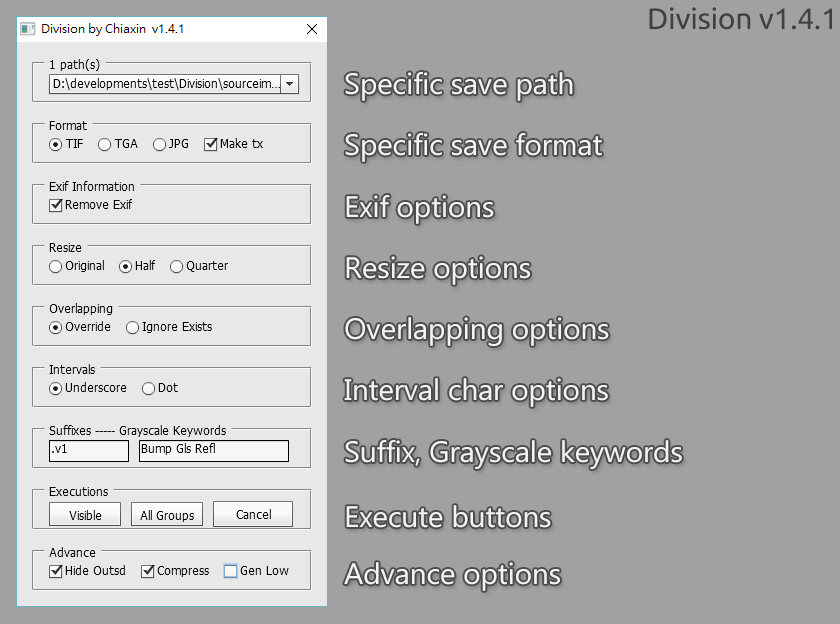
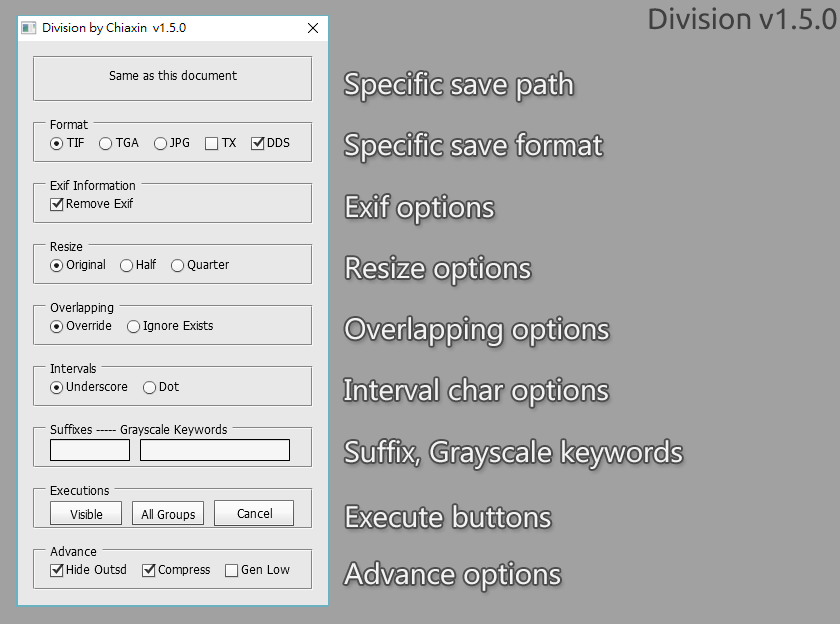
Refactoring code. update to version 1.5

diff --git a/Division.jsx b/Division.jsx
@@ -33,7 +33,7 @@ const COLOR_PROFILE_EMBED     = false                 ; // The Color-profile emb
 const ALPHA_CHANNEL_KEEP      = false                 ; // The Alpha channel keep or not.
 const EXTENSION_CASE          = Extension.LOWERCASE   ; // File extension is uppercase or lowercase? 
 const UI_TITLE                = "Division by Chiaxin "; // Window title.
-const SCRIPT_VER            = "v1.5.0"            ; // Version.
+const SCRIPT_VER              = "v1.5.0"            ; // Version.
 const ENDING_WAIT             = 240                   ; //
 
 // Low Resolution
@@ -49,13 +49,16 @@ const JPEG_FORMAT = FormatOptions.STANDARDBASELINE    ; // JPEG format.
 const JPEG_SAVE_QUALITY       = 12                    ; // JPEG compression quality.
 const JPEG_MATTE_TYPE         = MatteType.SEMIGRAY    ; // JPEG matte type.
 
+// Resample method
+const RESAMPLE_METHOD = ResampleMethod.BICUBIC;
+
 // TGA Format
 const TGA_PER_PIXELS = TargaBitsPerPixels.TWENTYFOUR  ; // TGA format (24 bits).
 
 // The log file would be pre-reading, If not exists, it will try to build a new file.
-const SCRIPT_NAME     = "Division.jsx"                        ; // The local script name.
-const LOG_NAME        = "DivisionLog.txt"                     ; // The log txt.
-const SCRIPT_FOLDER   = $.fileName.replace(SCRIPT_NAME, "")   ; // The script folder.
+const SCRIPT_NAME     = "Division.jsx"                ; // The local script name.
+const LOG_NAME        = "DivisionLog.txt"             ; // The log txt.
+const SCRIPT_FOLDER   = File($.fileName).path         ; // The script folder.
 
 // Global variables
 var gSavePaths      = [];       // Get all path(s) need to save.
@@ -63,7 +66,6 @@ var gDefaultSavePath= "";       // Default save path.
 var gImagePixel     = 72;       // Document's pixel. The default is 72.
 var gCompression    = true;     // Compression image option.
 var gGrayKeyword    = "";       // The keyword(s) define gray image.
-var gResampleMethod = ResampleMethod.BICUBIC;
 var gNumVisible     = 0;        //
 var gLayNumVisible  = 0;        //
 var gVersionAppend  = "";       // Indicate the version string suffix.
@@ -130,7 +132,9 @@ const   TEXT_PATHS      = "path(s)",
         TEXT_NO_DOCUMENTS = "There have no any document!",
         TEXT_PROC_TERM  = "Process has been terminated",
         TEXT_MAKETX_PROC= "Make tx process...",
+        TEXT_CONVDDS_PRO= "Convert dds process...",
         TEXT_MAKETX_NF  = "maketx.jsx was not found.",
+        TEXT_CONVDDS_NF = "makedds.jsx was not found.",
         TEXT_RMEXIF_PROC= "Remove EXIF process...",
         TEXT_EXIFUT_NF  = "exifutil.jsx was not found.",
         HELP_SAVE_PATH  = "Please choice a path of list you want to save.",
@@ -144,6 +148,7 @@ const   TEXT_PATHS      = "path(s)",
         HELP_EXEC_VIS   = "Only visible groups would be save.",
         HELP_EXEC_ALL   = "Save all layers.",
         HELP_MAKE_TX    = "Auto generate arnold tx format image.",
+        HELP_CONV_DDS   = "Convert DDS format after."
         HELP_RMEXIF     = "Remove EXIF information."
         HELP_HIDE_OUTSD = "Hide outside layers before.",
         HELP_COMPRESS   = "Compression image format.",
@@ -156,8 +161,7 @@ division();
 function division()
 {
     // If document is incorrect, terminate process.
-    if(!activeDocumentCheck())
-    {
+    if(!activeDocumentCheck()) {
         return false;
     }
     gSavePaths = getSavePathProc(); // Get all path(s) need to save.
@@ -247,12 +251,18 @@ function divisionDialog()
         }
         dlg.panelExtensionOptions.rbA.onClick = function() {
             gExtension = "tif"; gExtensionStore = gExtension; 
+            // Enable remove exif infomation function.
+            dlg.panelExifInformation.cbA.enabled = true
         };
         dlg.panelExtensionOptions.rbB.onClick = function() {
-            gExtension = "tga"; gExtensionStore = gExtension; 
+            gExtension = "tga"; gExtensionStore = gExtension;
+            // Disable remove exif infomation function.
+            dlg.panelExifInformation.cbA.enabled = false;
         };
         dlg.panelExtensionOptions.rbC.onClick = function() {
             gExtension = "jpg"; gExtensionStore = gExtension;
+            // Disable remove exif infomation function.
+            dlg.panelExifInformation.cbA.enabled = false;
         };
         gExtensionStore = gExtension;
     } else {
@@ -271,10 +281,10 @@ function divisionDialog()
         gAutoGenerateTx = !gAutoGenerateTx;
     };
     dlg.panelExtensionOptions.cbB = dlg.panelExtensionOptions.add(
-        "CheckBox", undefined, "DDS"
+        "CheckBox", undefined, TEXT_MAKEDDS
     );
     dlg.panelExtensionOptions.cbB.value = gConvertDds;
-    dlg.panelExtensionOptions.cbB.helpTip = TEXT_MAKEDDS;
+    dlg.panelExtensionOptions.cbB.helpTip = HELP_CONV_DDS;
     dlg.panelExtensionOptions.cbB.onClick = function() {
         gConvertDds = !gConvertDds;
     };
@@ -292,6 +302,10 @@ function divisionDialog()
     dlg.panelExifInformation.cbA.onClick = function() {
         gRemoveExif = !gRemoveExif;
     };
+    // Disable remove exif function if format is not tif
+    if (gExtension != "tif") {
+        dlg.panelExifInformation.cbA.enabled = false;
+    }
 
     // Panel resize image options.
     dlg.panelResizeOptions = dlg.add("panel", undefined, TEXT_RESIZE);
@@ -604,7 +618,7 @@ function divisionMainProc(is_output_all)
                 app.activeDocument = work_doc; //Setting work document active.
                 while(work_doc.height.value != resize_height)
                 {
-                    work_doc.resizeImage(resize_width, resize_height, gImagePixel, gResampleMethod);
+                    work_doc.resizeImage(resize_width, resize_height, gImagePixel, RESAMPLE_METHOD);
                 }
                 work_doc.close(SaveOptions.SAVECHANGES); // Close with save changes.
                 app.activeDocument = curr_doc; // Focus previous document.
@@ -684,9 +698,23 @@ function divisionMainProc(is_output_all)
         if (maketx_file.exists) {
             $.evalFile(maketx_file);
             maketx(saved_images);
-            rate.setInfo(MAKE_PROC);
+            rate.setInfo(TEXT_MAKETX_PROC);
         } else {
-            rate.setInfo(MAKETX_NF);
+            rate.setInfo(TEXT_MAKETX_NF);
+        }
+    }
+
+    // Make DDS
+    if (gConvertDds)
+    {
+        var makedds_module = "" + File($.fileName).path + "/makedds.jsx";
+        var makedds_file = new File(makedds_module);
+        if (makedds_file.exists) {
+            $.evalFile(makedds_file);
+            makedds(saved_images);
+            rate.setInfo(TEXT_CONVDDS_PRO);
+        } else {
+            rate.setInfo(TEXT_CONVDDS_NF);
         }
     }
 
@@ -701,20 +729,6 @@ function divisionMainProc(is_output_all)
             rate.setInfo(TEXT_RMEXIF_PROC);
         } else {
             rate.setInfo(TEXT_EXIFUT_NF);
-        }
-    }
-    
-    // Make DDS
-    if (gConvertDds)
-    {
-        var makedds_module = "" + File($.fileName).path + "/makedds.jsx";
-        var makedds_file = new File(makedds_module);
-        if (makedds_file.exists) {
-            $.evalFile(makedds_file);
-            makedds(saved_images);
-            rate.setInfo("Make dds");
-        } else {
-            rate.setInfo("...");
         }
     }
 

diff --git a/maketx.jsx b/maketx.jsx
@@ -3,20 +3,18 @@
 //  maketx module
 //
 // ---------------------------------------------------------------------------
-//
-var common_module = "" + File($.fileName).path + "/common.jsx";
-var common_file = new File(common_module);
-if (common_file.exists)
-{
+
+// Loading common script.
+const common_file = new File("" + File($.fileName).path + "/common.jsx");
+if (common_file.exists) {
     $.evalFile(common_file);
 }
-else
-{
+else {
     alert("common.jsx is not eixsts.");
 }
 
-var MAKETX_CONFIG_FILE = "/txConfig.txt";
-var GENERATE_TX_TEMP_BAT = "/division_generate_tx.bat";
+const MAKETX_CONFIG_FILE = "/txConfig.txt";
+const GENERATE_TX_TEMP_BAT = "/division_generate_tx.bat";
 
 function maketx(images)
 {
@@ -65,32 +63,46 @@ function maketx(images)
     } finally {
         config.close();
     }
-    var bat_command = join([qw(bin), maketx_arguments, "--colorengine", "syncolor",
-                      "--colorconfig", qw(colorconfig)]);
+    var bat_command = join([qw(bin), 
+                            maketx_arguments, 
+                            "--colorengine", 
+                            "syncolor",
+                            "--colorconfig", 
+                            qw(colorconfig)
+                           ]);
     var temp_folder = get_temp_folder();
     var bat_file = win_path(temp_folder + GENERATE_TX_TEMP_BAT);
-    var bat_fh = new File(bat_file);
+    var file_handle = new File(bat_file);
     try {
-        bat_fh.open('w');
-        bat_fh.writeln("@echo off");
-        for (var img_id = 0 ; img_id < images.length ; img_id++)
-        {
-            var image = win_path(images[img_id]);
+        file_handle.open('w');
+        file_handle.writeln("@echo off");
+        for (var idx = 0 ; idx < images.length ; idx++) {
+            var image = win_path(images[idx]);
             var image_color_space = default_color_profile;
             if (has_keyword(image, srgb))
                 image_color_space = "sRGB";
             else if (has_keyword(image, raw))
                 image_color_space = "Raw";
-            image_color_space = join(["--colorconvert", image_color_space, qw(colorspace)]);
+            image_color_space = join(["--colorconvert", 
+                                      image_color_space, 
+                                      qw(colorspace)
+                                     ]);
             var output_path = temp_folder + "\\" + basename(image) + ".tx";
-            var make_cmd = join([bat_command, "-o", qw(output_path), image_color_space, qw(image)]);
-            var copy_cmd = join(["xcopy /Y", qw(output_path), qw(dirname(image))]);
-            bat_fh.writeln(make_cmd);
-            bat_fh.writeln(copy_cmd);
+            var make_tx_command = join([bat_command, 
+                                        "-o", 
+                                        qw(output_path), 
+                                        image_color_space, 
+                                        qw(image)
+                                       ]);
+            var copy_img_command = join(["xcopy /Y", 
+                                         qw(output_path), 
+                                         qw(dirname(image))
+                                        ]);
+            file_handle.writeln(make_tx_command);
+            file_handle.writeln(copy_img_command);
         }
-        if (!bat_fh.execute())
-        {
-            alert("Make tx failed.");
+        if (!file_handle.execute()) {
+            alert("Make tx process is failed.");
         }
     } catch (e) {
         alert(e);

diff --git a/makedds.jsx b/makedds.jsx
@@ -1,11 +1,11 @@
 // ---------------------------------------------------------------------------
 //
-//  maketx module
+//  makedds module
 //
 // ---------------------------------------------------------------------------
-//
-const common_module = "" + File($.fileName).path + "/common.jsx";
-var common_file = new File(common_module);
+
+// Loading common script.
+const common_file = new File("" + File($.fileName).path + "/common.jsx");
 if (common_file.exists) {
     $.evalFile(common_file);
 }
@@ -25,9 +25,9 @@ function makedds(images)
         return -1;
     }
     var bin = "texconv.exe",
-        args= "",
-        default_format = "-f BC7_UNORM_SRGB",
-        normal_map_format = "-f BC5_SNORM",
+        args= "-ft DDS",
+        default_format = "-f BC7_UNORM_SRGB -srgbi",
+        normal_map_format = "-f BC5_UNORM",
         alpha = "-aw 0.0";
     try {
         config.open("r");
@@ -78,31 +78,24 @@ function makedds(images)
             var base_name = basename(image);
             var cmd = "";
             if (has_keyword(base_name, normal_map_keyword)) {
-                cmd = join(
-                    [
-                        bat_command, 
-                        "-o",
-                        qw(output_path),
-                        normal_map_format,
-                        image
-                    ]
-                );
+                cmd = join([bat_command, 
+                            "-o",
+                            qw(output_path),
+                            normal_map_format,
+                            image
+                           ]);
             } else {
-                cmd = join(
-                    [
-                        bat_command, 
-                        "-o",
-                        qw(output_path),
-                        alpha,
-                        default_format,
-                        image
-                    ]
-                );
+                cmd = join([bat_command, 
+                            "-o",
+                            qw(output_path),
+                            default_format,
+                            image
+                           ]);
             }
             bat_fh.writeln(cmd);
         }
         if (!bat_fh.execute()) {
-            alert("Convert dds file failed.");
+            alert("Convert dds process is failed.");
         }
     } catch (e) {
         alert(e);

diff --git a/exifutils.jsx b/exifutils.jsx
@@ -1,23 +1,21 @@
 // ---------------------------------------------------------------------------
 //
-//  Exifutils module
+//  exifutils module
 //
 // ---------------------------------------------------------------------------
-//
-var common_module = "" + File($.fileName).path + "/common.jsx";
-var common_file = new File(common_module);
-if (common_file.exists)
-{
+
+// Loading common script.
+const common_file = new File("" + File($.fileName).path + "/common.jsx");
+if (common_file.exists) {
     $.evalFile(common_file);
 }
-else
-{
+else {
     alert("common.jsx is not eixsts.");
 }
 
-var RM_EXIF_BAT_FILE = "_rm_exif.bat";
-var EXIFTOOL = "" + (File($.fileName).path) + "/exiftool.exe";
-var RM_EXIF_ARGS = "-all= -P -overwrite_original";
+const RM_EXIF_BAT_FILE = "_rm_exif.bat";
+const EXIFTOOL = "" + (File($.fileName).path) + "/exiftool.exe";
+const RM_EXIF_ARGS = "-all= -P -overwrite_original";
 
 function remove_all_exif(images)
 {
@@ -28,20 +26,17 @@ function remove_all_exif(images)
     try {
         rm_exif_bat.open('w');
         rm_exif_bat.writeln("@echo off");
-        for (var idx = 0 ; idx < images.length ; idx++)
-        {
-            if ((File(images[idx]).exists))
-            {
+        for (var idx = 0 ; idx < images.length ; idx++) {
+            if ((File(images[idx]).exists)) {
                 full_cmd += qw(win_path(images[idx])) + " ";
             }
         }
         rm_exif_bat.writeln(full_cmd);
-        if (!rm_exif_bat.execute())
-        {
-            alert("Remove exif failed.");
+        if (!rm_exif_bat.execute()) {
+            alert("Remove exif process is failed.");
         }
     } catch (e) {
-        alert("Remove exif failed.");
+        alert(e);
     } finally {
         rm_exif_bat.close();
     }
